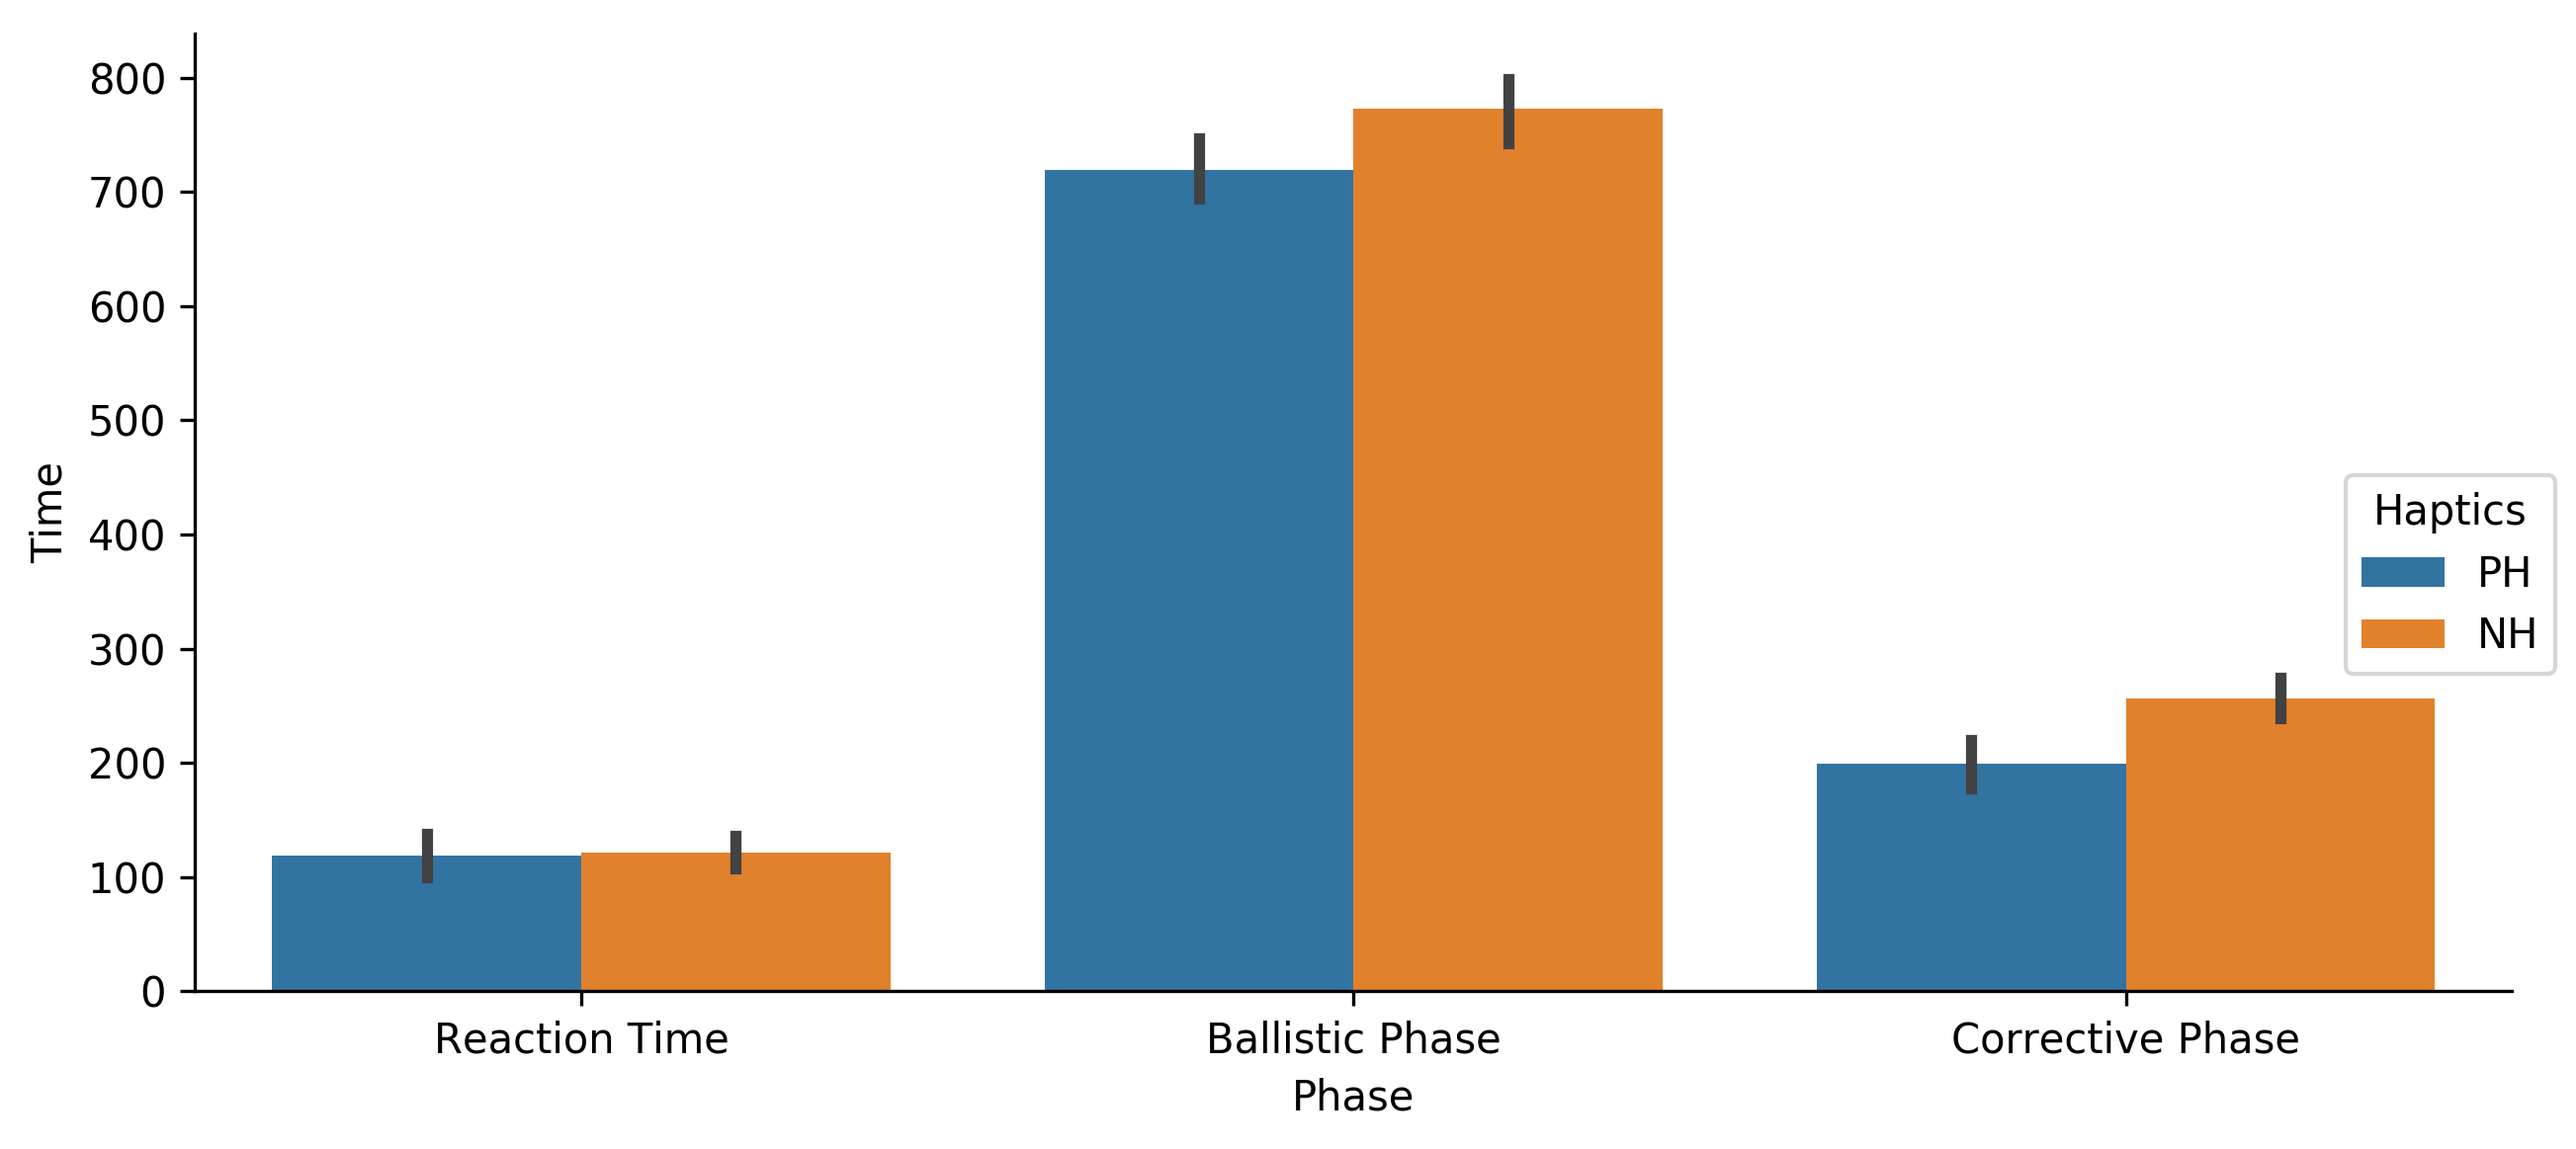
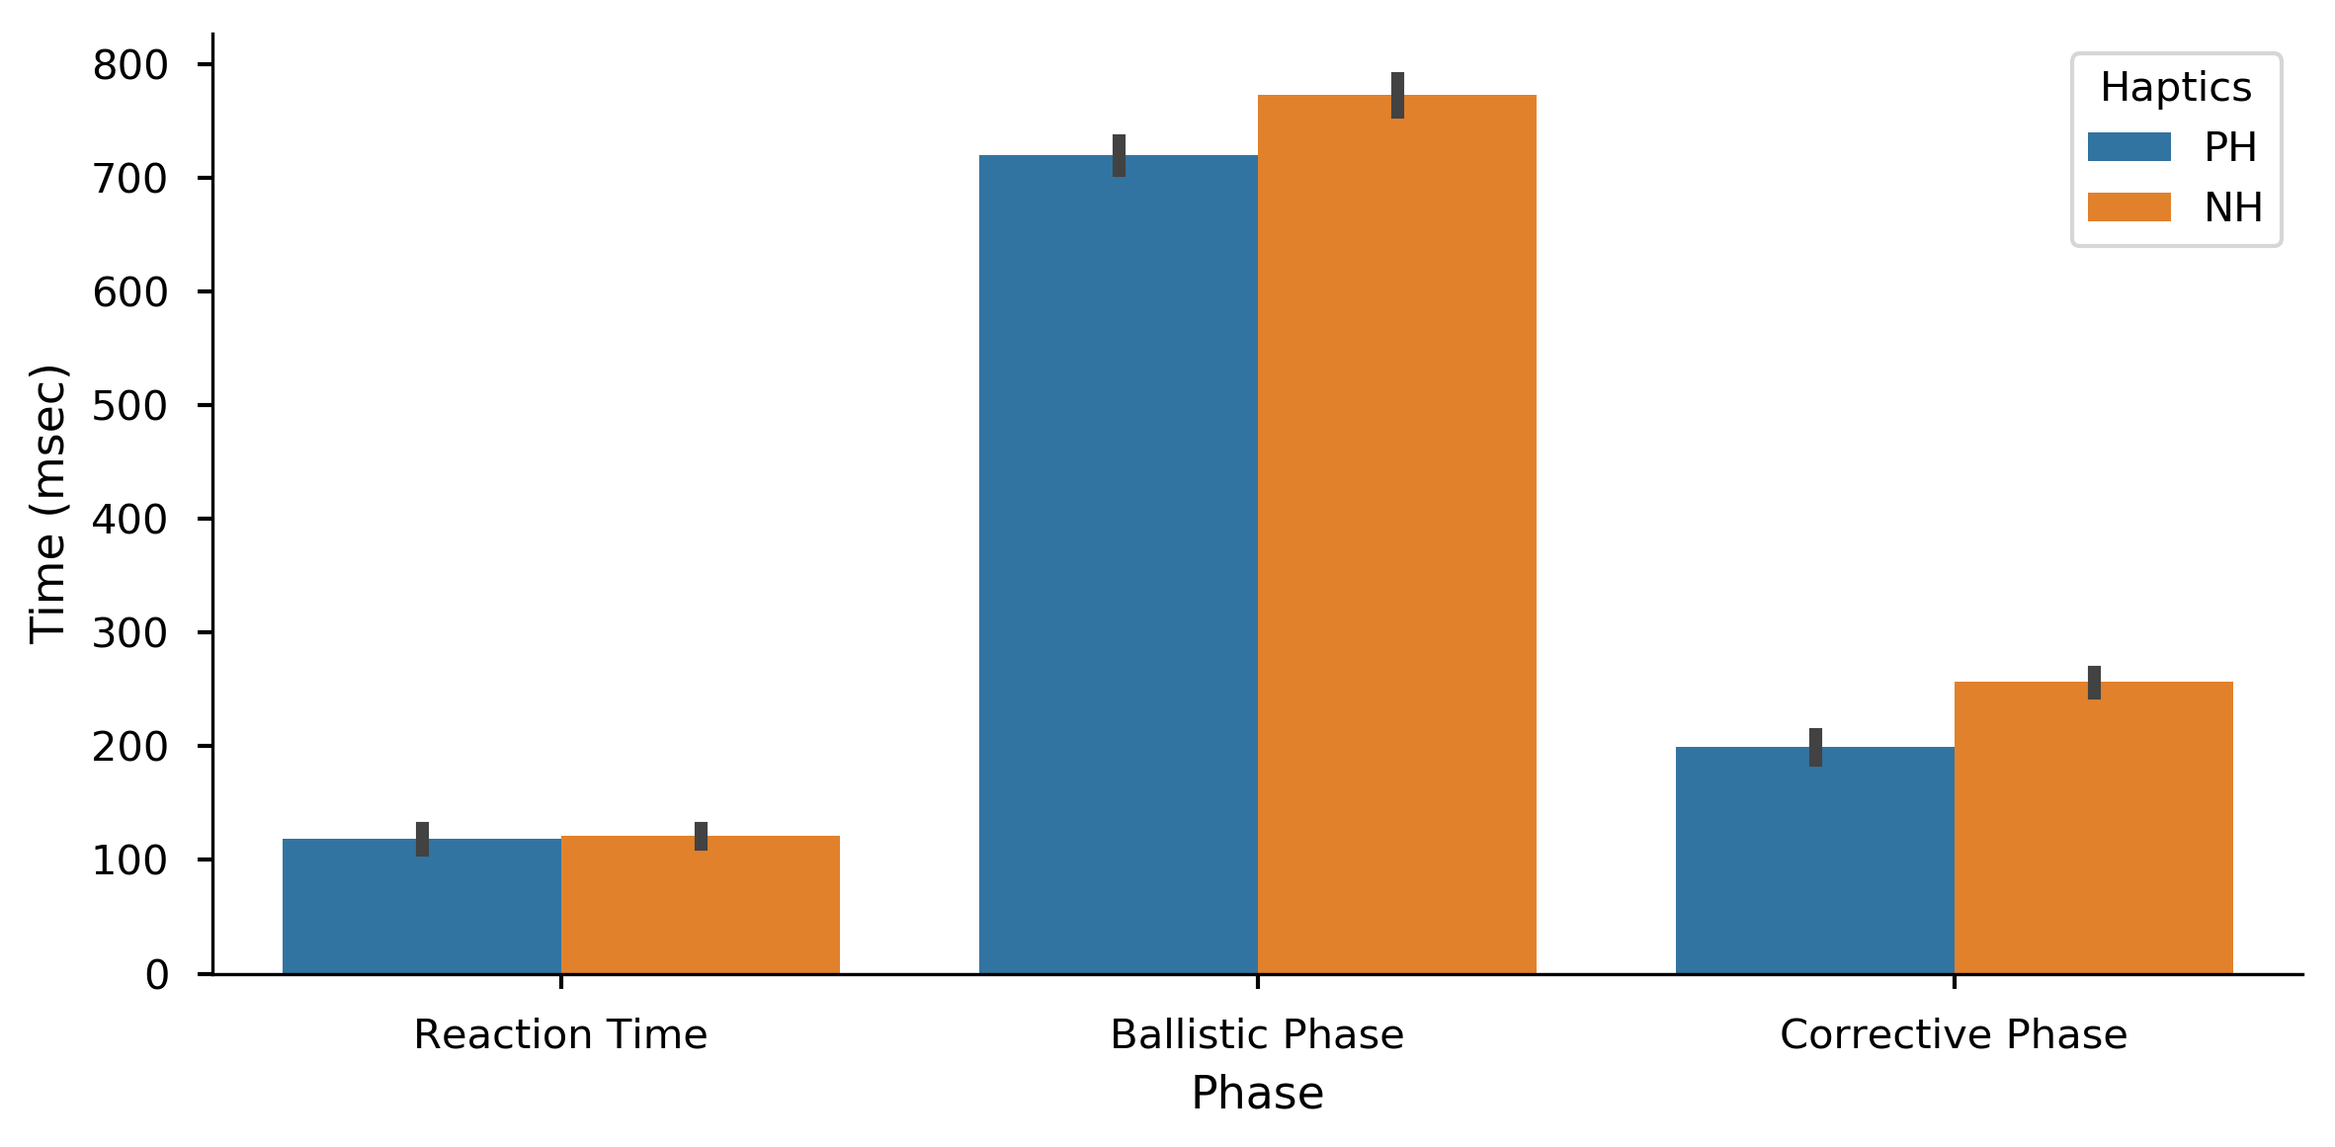
:bar_chart: Rebuild factorplots, update captions.
- consisently uses SEM in plot error bars
- states that in the captions
- fixes bad labels
- fixes bad legend placement
- fixes #29

Changed region(s): [[0.0, 0.031, 1.0, 0.9922], [0.8959, 0.031, 0.9886, 0.2171]]

diff --git a/chapters/design_exp.tex b/chapters/design_exp.tex
@@ -528,7 +528,7 @@ The task and experiment was designed with this in mind and mitigated through tra
 \begin{figure}
     \centering
     \includegraphics[width=5.0in]{{rmse.3.0x1.5}.png}
-    \caption{RMSE (root mean square error) of the tracking task by Group and Design.}
+    \caption{RMSE (root mean square error) of the tracking task by Group and Design. Error bars are standard error of the mean.}
     \label{fig:de_factor_rmse}
 \end{figure}
 
@@ -560,7 +560,7 @@ This indicates that when the subjects were focused on the single task, they were
 \begin{figure}
     \centering
     \includegraphics[width=5.0in]{{rmse_tracking_trials.3.0x1.5}.png}
-    \caption{RMSE of tracking task for tracking only trials by Group and Design.}
+    \caption{RMSE of tracking task for tracking only trials by Group and Design. Error bars are standard error of the mean.}
     \label{fig:de_factor_rmse_tracking_only}
 \end{figure}
 
@@ -584,7 +584,7 @@ After filtering, 885 of the total 1700 prompts recorded for the Edgekey design w
 \begin{figure}
     \centering
     \includegraphics[width=5.0in]{{reaction_time.3.0x1.5}.png}
-    \caption{Prompt Response Time (milliseconds) by Group and Design.}
+    \caption{Prompt Response Time (milliseconds) by Group and Design. Error bars are standard error of the mean.}
     \label{fig:de_factor_response}
 \end{figure}
 
@@ -616,7 +616,7 @@ This indicates that for a task that includes a large cognitive workload, the per
 \begin{figure}
     \centering
     \includegraphics[width=5.0in]{{correct_prompts.3.0x1.5}.png}
-    \caption{Percent of Correct Prompts per Trial by Group and Design.}
+    \caption{Percent of Correct Prompts per Trial by Group and Design. Error bars are standard error of the mean.}
     \label{fig:de_factor_correct}
 \end{figure}
 
@@ -673,7 +673,7 @@ The interaction effect existed because the VR group found the Edgekey design mor
 \begin{figure}
     \centering
     \includegraphics[width=5.0in]{{tlx.3.0x1.5}.png}
-    \caption{NASA-TLX workload scores by Group and Design.}
+    \caption{NASA-TLX workload scores by Group and Design. Error bars are standard error of the mean.}
     \label{fig:de_factor_tlx}
 \end{figure}
 
@@ -711,7 +711,7 @@ The RMSE of the tracking only trials, by Group and trial number, is shown in Fig
 \begin{figure}
     \centering
     \includegraphics[width=5.0in]{{training_rmse.3.0x1.5}.png}
-    \caption{RMSE for Tracking Only Trials by Group and Trial.}
+    \caption{RMSE for Tracking Only Trials by Group and Trial. Error bars are standard error of the mean.}
     \label{fig:de_factor_training}
 \end{figure}
 

diff --git a/chapters/haptics.tex b/chapters/haptics.tex
@@ -267,7 +267,7 @@ We first present the learning rate results, but before the effect of throughput 
 \begin{figure}
     \centering
     \includegraphics[width=\textwidth]{{throughput_trials.8.0x4.0}.png}
-    \caption{Throughput per trial. The learning curve exponential fit is given by Eq.~\ref{eq:ph_learning} with parameters from Table~\ref{tab:ph_tp_regression}.}
+    \caption{Throughput per trial. The learning curve exponential fit is given by Eq.~\ref{eq:ph_learning} with parameters from Table~\ref{tab:ph_tp_regression}. Error bars are standard error of the mean.}
     \label{fig:ph_throughput_trials}
 \end{figure}
 
@@ -398,7 +398,7 @@ For the remaining sections, unless otherwise noted, the results were based on us
 \begin{figure}
     \centering
     \includegraphics[width=5.0in]{{throughput.3.0x1.5}.png}
-    \caption{Throughput results by haptics and sequence.}
+    \caption{Throughput results by haptics and sequence. Error bars are standard error of the mean.}
     \label{fig:ph_throughput}
 \end{figure}
 
@@ -449,7 +449,7 @@ The statistical tests reported here are for the filtered results, but the signif
 \begin{figure}
     \centering
     \includegraphics[width=5.0in]{{phases.4.0x2.0}.png}
-    \caption{Time spent in each trajectory phase by haptics.}
+    \caption{Time spent in each trajectory phase by haptics. Error bars are standard error of the mean.}
     \label{fig:ph_phases}
 \end{figure}
 
@@ -498,7 +498,7 @@ The average rating at each trial, separated by haptics condition, is shown in Fi
 \begin{figure}
     \centering
     \includegraphics[width=\textwidth]{{armfatigue_trials.8.0x4.0}.png}
-    \caption{Arm Fatigue by Trial.}
+    \caption{Arm Fatigue by Trial. Translucent bands are the standard error of the mean.}
     \label{fig:ph_armfatigue_trials}
 \end{figure}
 
